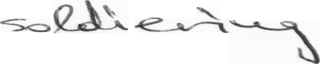
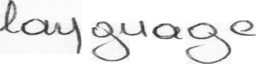
Switch handwriting presets to print-style hands (IAM 187/204/302)
User wanted hand-printing (disconnected, upright) rather than cursive.
Generated 'answer homework' across a spread of IAM writers and picked three
print hands by their actual One-DM output:
  neat  -> writer 187 (clean print)
  light -> writer 204 (light print)
  bold  -> writer 302 (bold print)
Replaces the prior bold/neat/cursive set; drops cursive.png.

Changed region(s): [[0.0, 0.0, 1.0, 1.0]]

diff --git a/app.py b/app.py
@@ -56,9 +56,9 @@ ALLOWED_EXT = {".pdf"}
 # output than arbitrary user photos. Keys are the ids the UI sends to /api/style.
 STYLES_DIR = BASE_DIR / "handwriting" / "styles"
 STYLE_PRESETS = {
-    "bold":    {"label": "Bold",    "file": "bold.png",    "hint": "dark & clear"},
-    "neat":    {"label": "Neat",    "file": "neat.png",    "hint": "light & tidy"},
-    "cursive": {"label": "Cursive", "file": "cursive.png", "hint": "flowing"},
+    "neat":  {"label": "Neat",  "file": "neat.png",  "hint": "clean print"},
+    "light": {"label": "Light", "file": "light.png", "hint": "light print"},
+    "bold":  {"label": "Bold",  "file": "bold.png",  "hint": "bold print"},
 }
 
 def _preset_b64(preset_id: str) -> str | None: